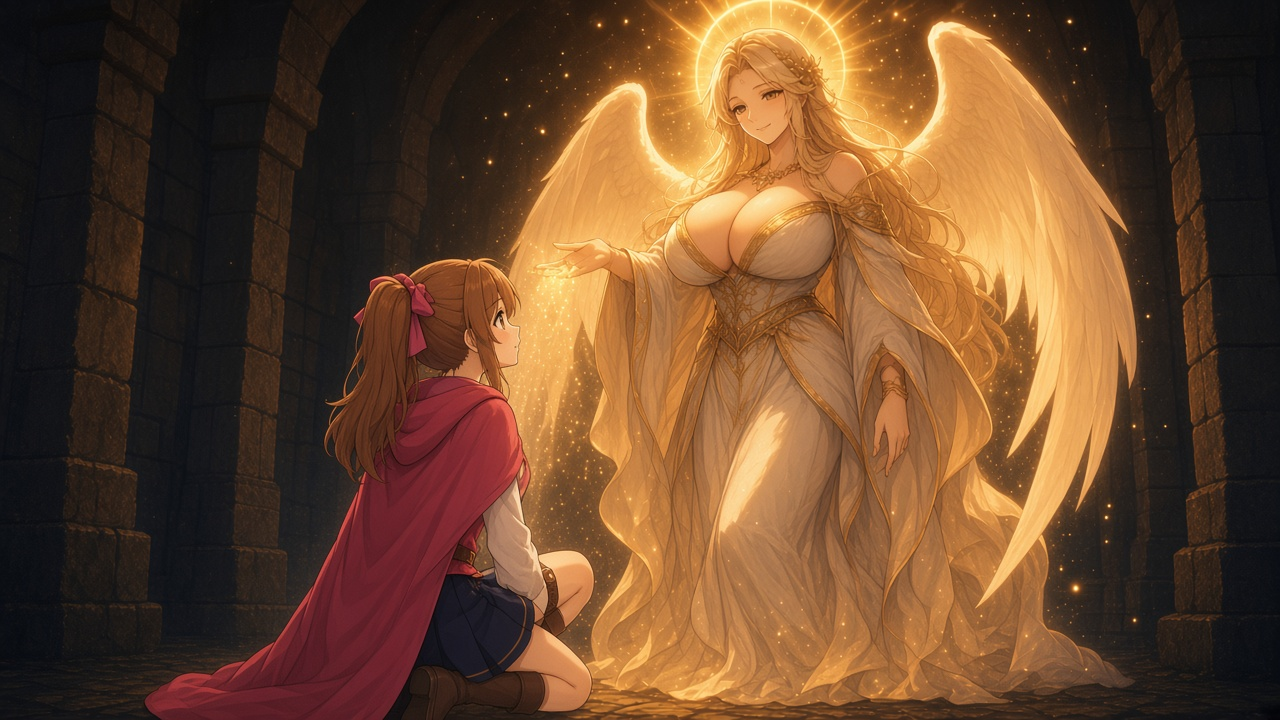
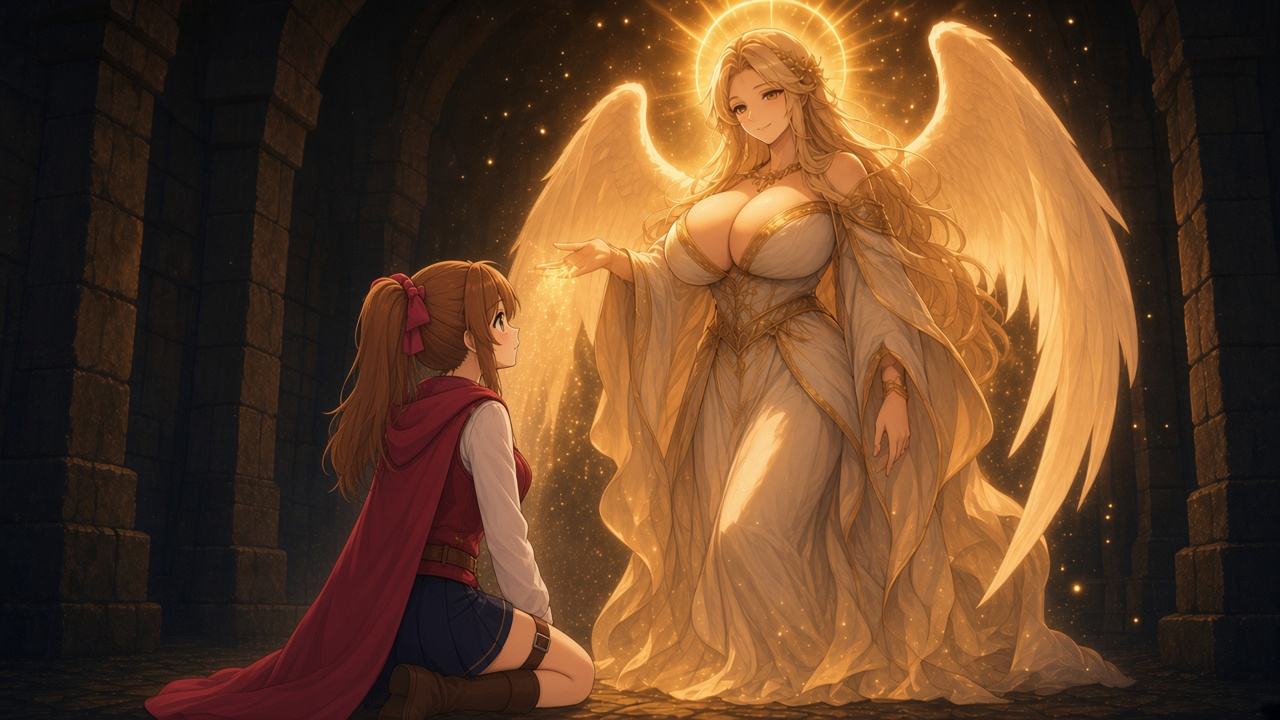
Redraw the blessing picture so the warrior's clothes stay crimson.

diff --git a/index.html b/index.html
@@ -6312,7 +6312,7 @@
         battleRatio: "3 / 4",
         defeat: "girl-defeat.png?v=10",
         victory: "girl-victory.png?v=16",
-        bless: "blessing-goddess-f.jpg?v=1",
+        bless: "blessing-goddess-f.jpg?v=2",
       },
     ];
     let heroCast = "戦士";
@@ -10091,7 +10091,7 @@
               ${sheetFig("chain-lock.png?v=1", "錆びた鎖（錠前2）", "cut-ref")}
             </div>
             <h3>祝福</h3>
-            ${sheetBanner("blessing-goddess-f.jpg?v=1", "祝福（戦士）", "荘厳な女神が、ひざまずく戦士に祝福を授けている")}
+            ${sheetBanner("blessing-goddess-f.jpg?v=2", "祝福（戦士）", "荘厳な女神が、ひざまずく戦士に祝福を授けている")}
             <h3>敵</h3>
             <div class="ref-grid">
               ${sheetFig("enemy-slime.png?v=4", "スライム", "enemy-ref")}
@@ -10258,7 +10258,7 @@
         }).join("") || `<p>外せるカードは無い。</p>`}</div>`
         : "";
       const eventPictures = {
-        "挑戦者に祝福を": [heroItem().bless || "blessing-goddess-f.jpg?v=1", `荘厳な女神が、ひざまずく${heroName()}に祝福を授けている`],
+        "挑戦者に祝福を": [heroItem().bless || "blessing-goddess-f.jpg?v=2", `荘厳な女神が、ひざまずく${heroName()}に祝福を授けている`],
         "お店": ["shop-merchant.jpg?v=6", "ジト目のまま怒って、値段を負けてもらおうとしている戦士"],
         "探索": ["event-search.jpg?v=5", "宝箱の蓋を彼女の側へ開け、光が漏れている戦士"],
         "キャンプ": ["event-rest.jpg?v=4", "左太ももにベルト。よだれを垂らしてかわいく寝ている。奥のミノタウロスは気づかず通り過ぎる"],
